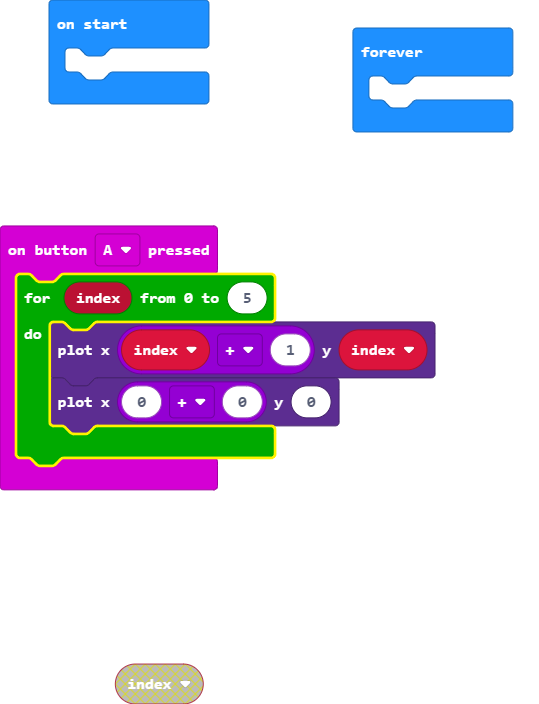
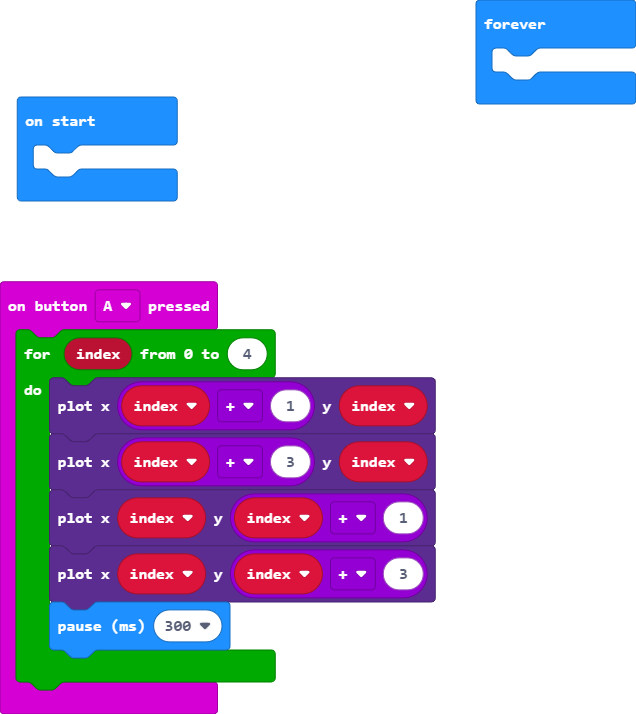
Update main.blocks, main.ts

diff --git a/main.ts b/main.ts
@@ -1,7 +1,10 @@
 input.onButtonPressed(Button.A, function () {
-    for (let index = 0; index <= 5; index++) {
+    for (let index = 0; index <= 4; index++) {
         led.plot(index + 1, index)
-        led.plot(0 + 0, 0)
+        led.plot(index + 3, index)
+        led.plot(index, index + 1)
+        led.plot(index, index + 3)
+        basic.pause(300)
     }
 })
 basic.forever(function () {
